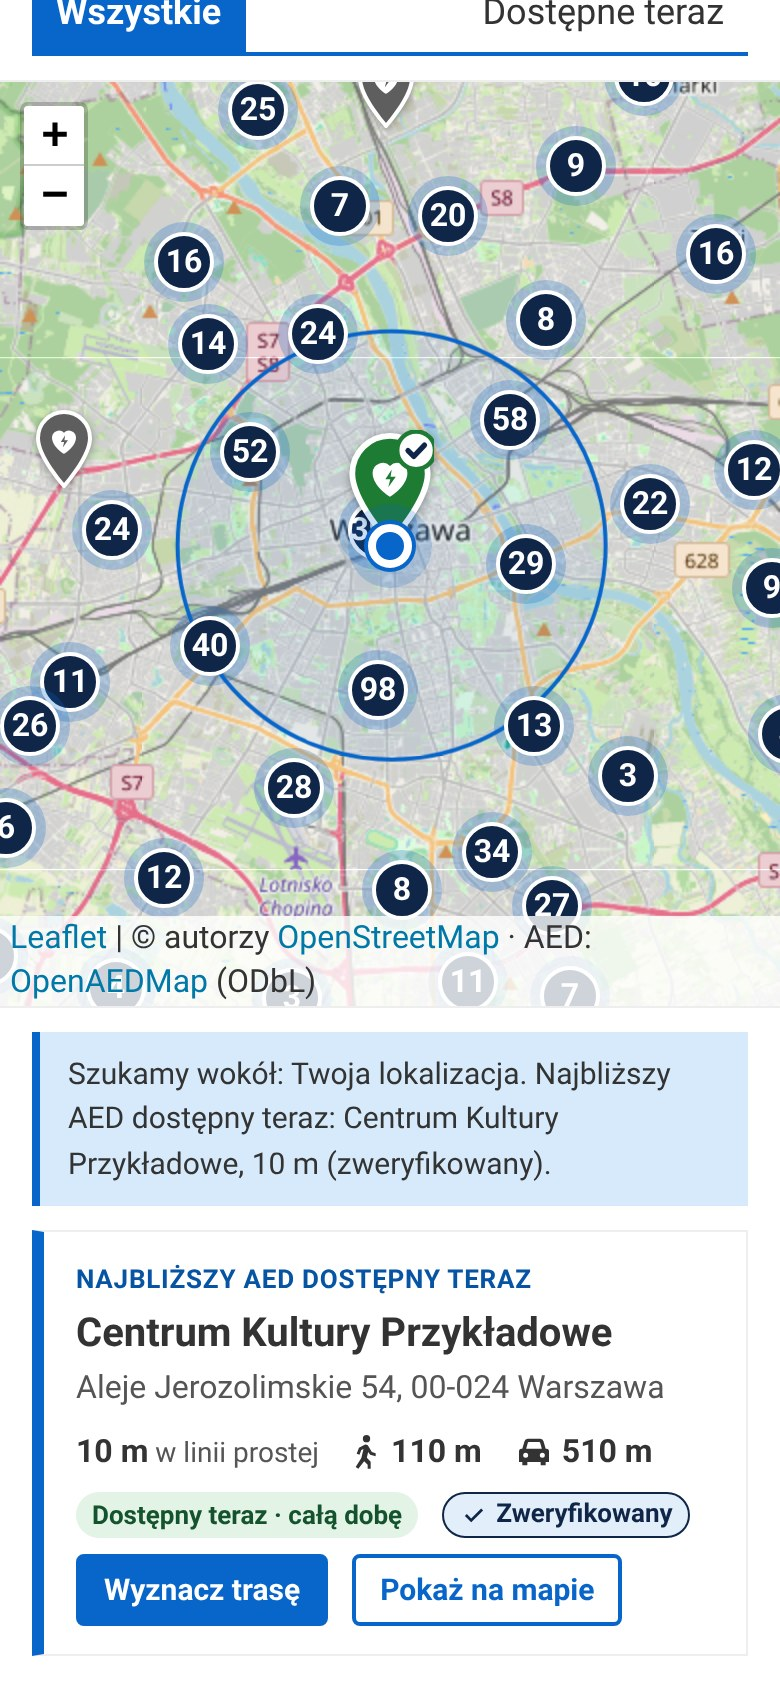
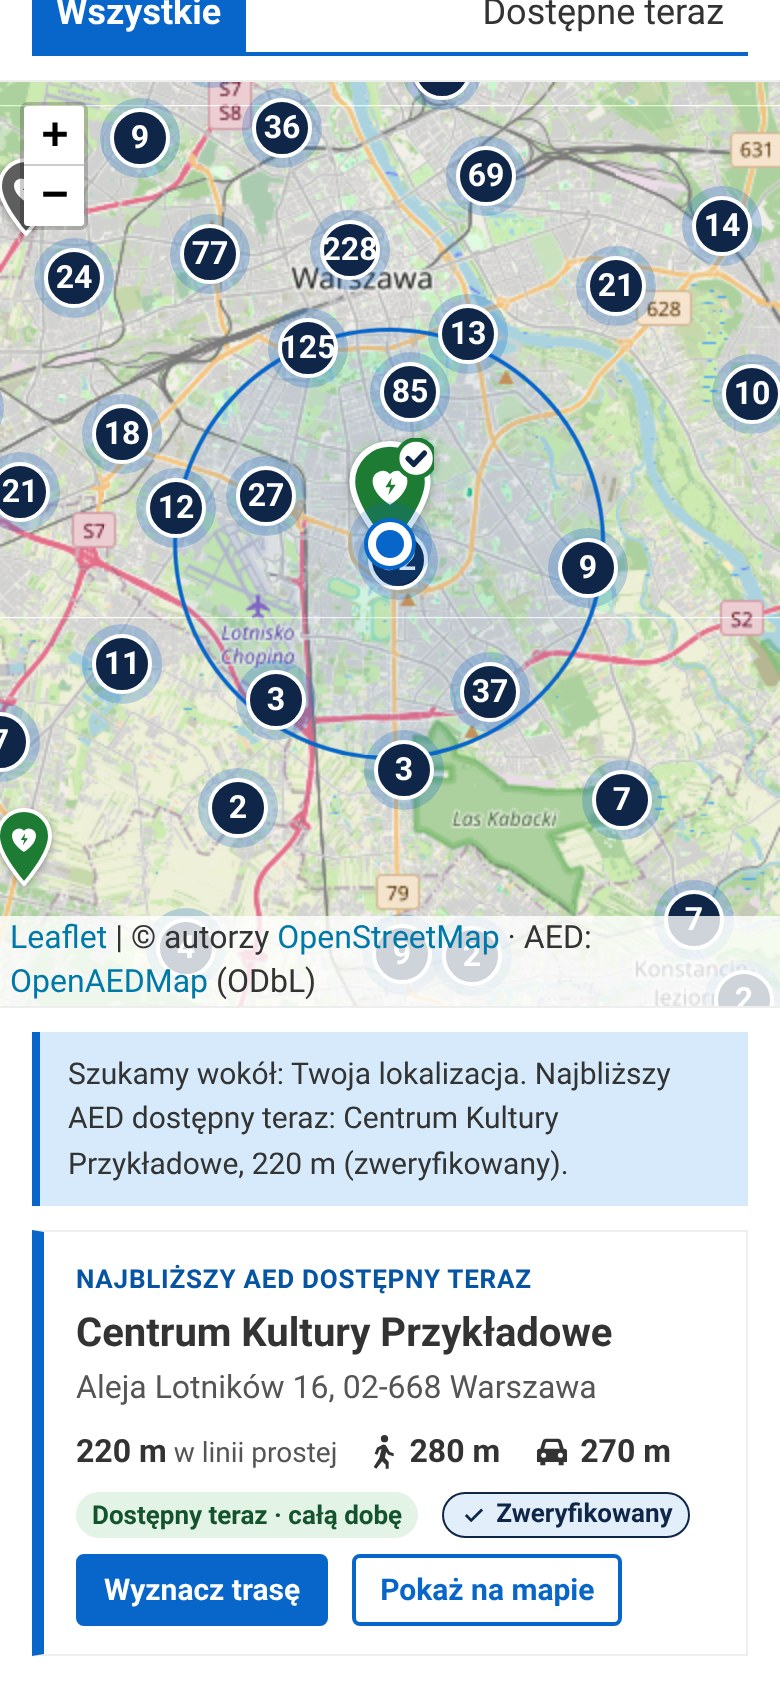
presentation: realne odległości (AED wzorcowy przy Al. Lotników), dane pod mapą na slajdzie 4, trasa w Mapach Google na slajdzie 7
AI-Assisted: Claude Code claude-opus-5-5
Claude-Session: https://claude.ai/code/session_01KGKLQRRSoYEonnxSuS6fbZ

diff --git a/presentation/narzedzia/rekord_wzorcowy.js b/presentation/narzedzia/rekord_wzorcowy.js
@@ -18,12 +18,14 @@ const rec = {
   opis_lokalizacji: 'Na zewnątrz, przy wejściu głównym, szafka na ścianie po prawej',
   nazwa_obiektu: 'Centrum Kultury Przykładowe', dysponent_nazwa: 'Centrum Kultury Przykładowe',
   telefon_kontaktowy: '+48221234567', gmina: 'Warszawa', wojewodztwo: 'mazowieckie', miejscowosc: 'Warszawa',
-  ulica: 'Aleje Jerozolimskie', numer_budynku: '54', kod_pocztowy: '00-024',
-  // zdjęcie poglądowe (OpenAEDMap, CC0) – rekord przykładowy nie ma własnego zdjęcia
+  ulica: 'Aleja Lotników', numer_budynku: '16', kod_pocztowy: '02-668',
+  // zdjęcie poglądowe (OpenAEDMap, CC0) – rekord przykładowy nie ma własnego zdjęcia.
+  // Położenie: Al. Lotników 16 (Warszawa, Służew) – w okolicy nie ma innego AED bliżej niż ok. 450 m,
+  // więc z punktu startu 52.176, 21.016 AED wzorcowy jest najbliższy, a odległości są realne.
   zdjecie_url: 'https://openaedmap.org/api/v1/photos/view/xmFQlbH_OmjBGWVaLDFHPQ.webp',
 };
 const idx = (v) => { let i = d.slownik.indexOf(v); if (i < 0) { d.slownik.push(v); i = d.slownik.length - 1; } return i; };
-d.aed.push([Math.round(52.228796 * 1e5), Math.round(21.003298 * 1e5)].concat(d.pola.map((f) => idx(rec[f]))));
+d.aed.push([Math.round(52.174 * 1e5), Math.round(21.016 * 1e5)].concat(d.pola.map((f) => idx(rec[f]))));
 d.kody.push('bd767fc6fc');
 fs.writeFileSync(path.resolve(dir, 'data/aed-data.js'), 'window.AED_DATA = ' + JSON.stringify(d) + ';\n');
 console.log('Dopisano rekord: aed.html?aed=aed-warszawa-centrum-kultury-przykladowe-bd767fc6fc-mazowieckie');

diff --git a/presentation/narzedzia/zrzuty.py b/presentation/narzedzia/zrzuty.py
@@ -3,8 +3,9 @@ from playwright.sync_api import sync_playwright
 # Zrzuty prototypu do prezentacji (Playwright, Python), na kopii app/ z rekordem wzorcowym:
 #   cp -r app /tmp/app-demo && node presentation/narzedzia/rekord_wzorcowy.js /tmp/app-demo
 #   cd /tmp/app-demo && python -m http.server 8766
-# Uruchomienie: python presentation/narzedzia/zrzuty.py [flow hc font]
-# Zegar: wtorek 11:00; położenie: przy AED wzorcowym (Warszawa, Al. Jerozolimskie 54).
+# Uruchomienie: python presentation/narzedzia/zrzuty.py [flow hc font desk]
+# Zegar: wtorek 11:00; start 52.176, 21.016 (ok. 220 m od AED wzorcowego przy Al. Lotników 16).
+# Krok 4 ścieżki obywatela (trasa) to zrzut Map Google otwartych przyciskiem „Wyznacz trasę”.
 import pathlib
 OUT=str(pathlib.Path(__file__).resolve().parent.parent / "zrzuty-surowe") + "/"
 pathlib.Path(OUT).mkdir(exist_ok=True)
@@ -12,7 +13,7 @@ DEMO="http://localhost:8766/"
 T=datetime.datetime(2026,11,24,11,0)
 IOS="Mozilla/5.0 (iPhone; CPU iPhone OS 18_0 like Mac OS X) AppleWebKit/605.1.15 (KHTML, like Gecko) Version/18.0 Mobile/15E148 Safari/604.1"
 MODEL="aed-warszawa-centrum-kultury-przykladowe-bd767fc6fc-mazowieckie"
-GEO={"latitude":52.22884,"longitude":21.00338}
+GEO={"latitude":52.176,"longitude":21.016}
 def ctx(b,w,h,mobile=True,geo=GEO):
     return b.new_context(viewport={"width":w,"height":h},device_scale_factor=2,is_mobile=mobile,has_touch=mobile,locale="pl-PL",timezone_id="Europe/Warsaw",geolocation=geo,permissions=["geolocation"],user_agent=IOS if mobile else None)
 which=sys.argv[1:] or ["all"]; want=lambda n:"all" in which or n in which
@@ -36,6 +37,13 @@ with sync_playwright() as pw:
         if btn.count(): btn.first.click()
         p.wait_for_timeout(6000); p.evaluate("window.scrollTo(0,0)"); p.wait_for_timeout(300)
         p.screenshot(path=OUT+"o4-szczegoly.png"); p.screenshot(path=OUT+"o4-full.png",full_page=True); c.close()
+    if want("desk"):
+        c=ctx(b,1440,900,mobile=False); p=c.new_page(); p.clock.install(time=T)
+        p.goto(DEMO+"aed.html?aed="+MODEL); p.wait_for_timeout(1500)
+        btn=p.get_by_role("button",name="Pokaż odległość")
+        if btn.count(): btn.first.click()
+        p.wait_for_timeout(7000); p.evaluate("window.scrollTo(0,0)"); p.wait_for_timeout(300)
+        p.screenshot(path=OUT+"model-desktop.png"); p.screenshot(path=OUT+"model-desktop-full.png",full_page=True); c.close()
     if want("hc"):
         c=ctx(b,390,844); p=c.new_page(); p.clock.install(time=T)
         p.goto(DEMO+"index.html"); p.wait_for_timeout(1500)

diff --git a/presentation/README.md b/presentation/README.md
@@ -18,10 +18,10 @@ Hasło prezentacji: **„Otwarte dane. Cenne sekundy. Uratowane życie.”**
 | 1 | Tytułowy | logotyp, hasło, zespół; telefon z mapą i najbliższym AED wzorcowym (zweryfikowany, czynny całą dobę) | `branding/logotyp-aedane.svg`, `zrzuty/obywatel-2-wynik.jpg` |
 | 2 | Problem i wyzwanie | historia z treści zadania; 50 AED na dane.gov.pl (3 z 2 479 gmin) vs ok. 18,3 tys. w OSM; wyzwanie | `zrzuty/mapa-luk.jpg` |
 | 3 | Nasza odpowiedź: AEDane | 4 kroki prostym językiem: wspólny formularz → sprawdzenie i paczka → jeden wykaz na dane.gov.pl → Znajdź AED; akcja AEDane | sygnet |
-| 4 | Wzorcowy zakres danych | 41 pól (14/20/7), 8 grup; **wzorcowo opisany AED**: zweryfikowany, ze zdjęciem, godzinami, dostępem, opisem miejsca, dysponentem | `zrzuty/rekord-wzorcowy.jpg` |
-| 5 | Architektura i zgodność z dane.gov.pl | dla osób spoza IT: 3 kroki (instytucja wgrywa plik → portal łączy co noc → każdy korzysta), wynik 50 AED z portalu, zasady portalu | – (wynik: `zrzuty/portal-demo-wykaz.png`) |
+| 4 | Wzorcowy zakres danych | 41 pól (14/20/7), 8 grup; **wzorcowo opisany AED**: góra strony (status, adres, zdjęcie, mapa) i dane pod mapą (dostępność, miejsce, dysponent, weryfikacja) | `zrzuty/rekord-wzorcowy.jpg`, `zrzuty/rekord-wzorcowy-dane.jpg` |
+| 5 | Architektura i zgodność z dane.gov.pl | dla osób spoza IT: 3 kroki (instytucja wgrywa plik → portal łączy co noc → każdy korzysta), wynik 50 AED z portalu, 4 powody zgodności z zasadami portalu | – (wynik: `zrzuty/portal-demo-wykaz.png`) |
 | 6 | Ścieżka: dysponent danych | 5 kroków instytucji + 3 kroki dystrybutora | – |
-| 7 | Ścieżka: obywatel i ratownik | 4 kroki od telefonu do czynnego AED, na AED wzorcowym | `zrzuty/obywatel-1…4-*.jpg` |
+| 7 | Ścieżka: obywatel i ratownik | 4 kroki: 112 i lokalizacja → najbliższy czynny AED → dymek → trasa w Mapach Google | `zrzuty/obywatel-1…4-*.jpg` |
 | 8 | Dostępność WCAG i testy | axe-core (14 widoków, 0 naruszeń poza opisanym wyjątkiem 2.5.8), 328 testów, tryb kontrastu, tekst 200% (A+++), pomoc przy lokalizacji | `zrzuty/wcag-*.jpg` |
 | 9 | Ograniczenia i dalszy rozwój | **lista ograniczeń** i propozycje rozwoju | – |
 | 10 | Dziękujemy za uwagę | hasło, logotyp, zespół, repozytorium | – |
@@ -31,8 +31,8 @@ Zrzuty ekranu są na slajdach 1, 2, 4, 7 i 8 (wymóg: min. 5). Kroki użytkownik
 ## Skąd są liczby i zrzuty
 
 - **Statystyki** (slajdy 2, 9): `python -m ingest stats` i `python -m ingest gaps` z 22.11.2026. Prototyp pokazuje 18 306 AED (dane z 21.11.2026), stąd „ok. 18,3 tys.”.
-- **Rekord wzorcowy** (slajdy 1, 4 i 7): rekord przykładowy z arkusza „Przykład” w `schema/wzorcowy-zakres-danych-aed.xlsx` (Centrum Kultury Przykładowe – **dane poglądowe**, opisane tak na slajdzie), dopisany tylko do **kopii** danych prototypu przez `narzedzia/rekord_wzorcowy.js`. Zdjęcie poglądowe: OpenAEDMap, CC0. W prawdziwych danych nie ma dziś AED, który byłby jednocześnie zweryfikowany i miał zdjęcie – 49 zweryfikowanych AED gmin nie ma zdjęć ani godzin.
-- **Zrzuty prototypu:** `narzedzia/zrzuty.py` (Playwright, Chromium) na kopii prototypu z gałęzi `krystian/app-kontrast-poprawki` (poprawki kolorów w trybach kontrastu) z dopisanym AED wzorcowym; zegar ustawiony na wtorek 11:00, położenie przy AED wzorcowym (Warszawa). Telefon: iPhone, 390×844 px; tekst 200%: 768×1024 px (opcja A+++ jest od 768 px, jak na dane.gov.pl). Krój pisma prezentacji: Inter (pełne polskie znaki).
+- **Rekord wzorcowy** (slajdy 1, 4 i 7): rekord przykładowy z arkusza „Przykład” w `schema/wzorcowy-zakres-danych-aed.xlsx` (Centrum Kultury Przykładowe – **dane poglądowe**, opisane tak na slajdzie; na potrzeby zrzutów położony przy Al. Lotników 16 w Warszawie, gdzie w pobliżu nie ma innego AED), dopisany tylko do **kopii** danych prototypu przez `narzedzia/rekord_wzorcowy.js`. Zdjęcie poglądowe: OpenAEDMap, CC0. W prawdziwych danych nie ma dziś AED, który byłby jednocześnie zweryfikowany i miał zdjęcie – 49 zweryfikowanych AED gmin nie ma zdjęć ani godzin.
+- **Zrzuty prototypu:** `narzedzia/zrzuty.py` (Playwright, Chromium) na kopii prototypu z gałęzi `krystian/app-kontrast-poprawki` z dopisanym AED wzorcowym. Zegar: wtorek 11:00. Start: 52.176, 21.016 – ok. 220 m od AED wzorcowego, więc odległości są realne (220 m w linii prostej, 280 m pieszo, 270 m samochodem z serwerów tras). Telefon: iPhone, 390×844 px; tekst 200%: 768×1024 px (opcja A+++ jest od 768 px, jak na dane.gov.pl). Krok 4 slajdu 7 to zrzut Map Google otwartych przyciskiem „Wyznacz trasę” z tego samego punktu. Krój pisma prezentacji: Inter (pełne polskie znaki).
 - **Portal:** wynik `portal/aed_demo.sh` z `portal/README-DOCKER-AED.md` (22.11.2026, prawdziwe dane 3 gmin → wykaz 50 AED).
 - **Testy** (slajd 8): `node --test app/tests/*.test.js` – 63; `pytest schema ingest` – 251 (z XSD, 0 pominiętych); testy scalania wykazu w portalu – 14 (`portal/mcod/resources/tests/test_aed_merge.py`, uruchamiane w kontenerze portalu).
 - **Mapa luk:** `narzedzia/mapa_luk.py` z `ingest/data/out/mapa-luk.geojson`.
